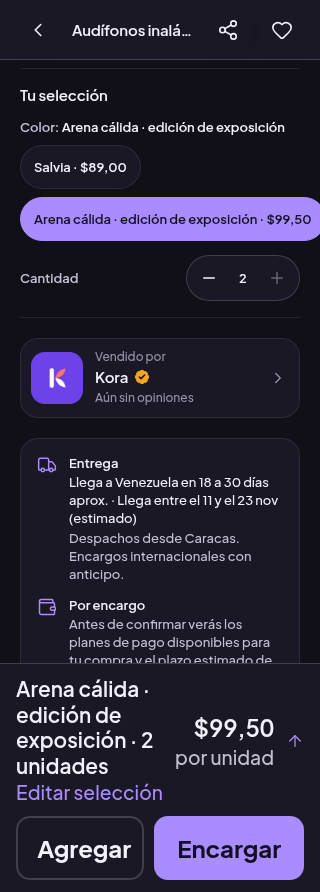
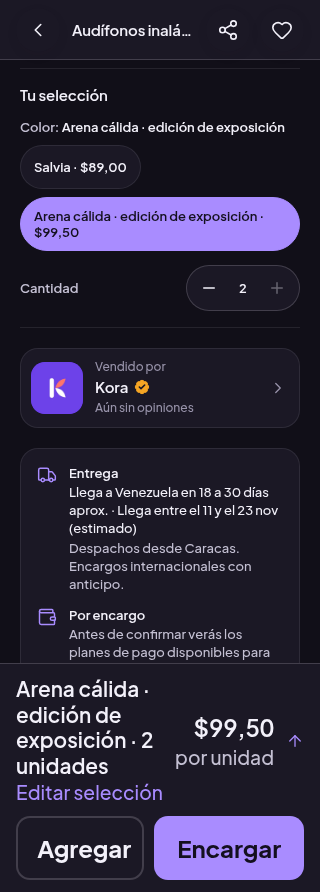
feat: validar selección contextual de compra y reflujo accesible

diff --git a/docs/ESTADO_ACTUAL.md b/docs/ESTADO_ACTUAL.md
@@ -12,7 +12,7 @@ El catálogo 25/32 ya fue publicado: EAS `40043643824` Success, fuente `04b384c`
 
 Root continúa un bloque específico de ficha, recomendado por director UX con framework Product Design y revisado estructuralmente por auditor: sección «Tu selección», resumen fijo de variante/cantidad y precio por unidad del DTO, Editar devuelve al selector medido, vendedor antes de condiciones. No otro modal ni cálculos. Se bloquea edición mientras agrega y se evita un segundo envío simultáneo; cambiar selección retira la confirmación anterior. Android reserva el inset superior una sola vez para que los iconos del sistema conserven contraste sobre las fotos claras; skeleton coherente y apariencia restaurada al salir. No cambios iOS/nativos/backend/financieros.
 
-**Checkpoint:** código de ficha y Chip opcionalmente deshabilitado, tipos/lint y ocho pruebas UI específicas aprobados. 16 capturas web antes/después revisadas; barra normal 131 px, selector completo llega a y=68 y cabe. Auditor acepta composición normal y exige foco al activar Editar: corregido con encabezado semántico focalizable, foco web y accesibilidad Android. Se corrige también un icono inexistente que caía en el pictograma de etiqueta. Retest final 8/8 aprobado con Enter → foco en encabezado → Tab a variante; selector completo por encima de barra. 20 PNG: 16 comparables y cuatro destino/estrés; fixture de variante larga/precio distinto sólo navegador, no datos remotos ni fuente OS. Exportación web/Android Hermes final correcta. Comercio APROBADO. QA detectó etiqueta de variante muy larga recortada en el fixture 320: corregido reflujo opcional sólo en chips de variantes, con prueba del texto y ancho completo. Se corrigió además la copia de cuatro capturas cuya carpeta de Playwright truncaba el nombre de tema; 20 rutas únicas/hashs. Falta retest del reflujo, auditor final y recepción nativa de este segundo incremento. No incluido en la primera OTA del catálogo y no publicar la segunda hasta cerrar su revisión y comprobar la recepción de la primera. Próxima acción: exportación web bajo `.local/ficha-seleccion-20261024`, pruebas focalizadas Editar→color/cantidad→Agregar→carrito, bloqueo/envío único/error/sin stock, capturas 320/412 claro/oscuro y revisión independiente. No repetir suites generales ni regenerar imágenes.
+**Checkpoint:** código de ficha y Chip opcionalmente deshabilitado, tipos/lint y ocho pruebas UI específicas aprobados. 16 capturas web antes/después revisadas; barra normal 131 px, selector completo llega a y=68 y cabe. Auditor acepta composición normal y exige foco al activar Editar: corregido con encabezado semántico focalizable, foco web y accesibilidad Android. Se corrige también un icono inexistente que caía en el pictograma de etiqueta. Retest final 8/8 aprobado con Enter → foco en encabezado → Tab a variante; selector completo por encima de barra. 20 PNG: 16 comparables y cuatro destino/estrés; fixture de variante larga/precio distinto sólo navegador, no datos remotos ni fuente OS. Exportación web/Android Hermes final correcta. Comercio APROBADO. QA detectó etiqueta de variante muy larga recortada en el fixture 320: corregido reflujo opcional sólo en chips de variantes, con prueba del texto y ancho completo. Se corrigió además la copia de cuatro capturas cuya carpeta de Playwright truncaba el nombre de tema; 20 rutas únicas/hashs. Retest de reflujo y exportaciones finales aprobados: 8/8 casos UI y etiqueta completa a 320 px. Dictamen final web APROBADO (20 hashes, 8 pruebas, foco/reflujo cerrados). Segunda OTA en preparación y recepción nativa pendientes. Auditor aprobó también recepción del catálogo tras revisar sus 24 JPG/hashs; P2 anterior de estado queda para la nueva ficha. No incluido en la primera OTA del catálogo y no publicar la segunda hasta cerrar su revisión y comprobar la recepción de la primera. Próxima acción: exportación web bajo `.local/ficha-seleccion-20261024`, pruebas focalizadas Editar→color/cantidad→Agregar→carrito, bloqueo/envío único/error/sin stock, capturas 320/412 claro/oscuro y revisión independiente. No repetir suites generales ni regenerar imágenes.
 
 ## Trabajo en curso — renovación real de imágenes Android
 

diff --git a/docs/FICHA_SELECCION_2026-10-24.md b/docs/FICHA_SELECCION_2026-10-24.md
@@ -1,6 +1,6 @@
 # Ficha: selección vinculada a compra
 
-**Segundo incremento del 24 de octubre de 2026.** El catálogo 25/32 ya está publicado y recibido; este bloque lo conserva. Fuente funcional `f195f8a`. Publicación de ficha todavía pendiente de cierre independiente.
+**Segundo incremento del 24 de octubre de 2026.** El catálogo 25/32 ya está publicado y recibido; este bloque lo conserva. Fuente funcional `f195f8a` y cierre de reflujo `73be557`. Dictamen independiente final web: **APROBADO** para publicar Android preview. Comercio también APROBADO.
 
 ## Problema y decisión
 
@@ -28,7 +28,7 @@ El framework aporta esos criterios; la composición y las medidas son decisiones
 
 La barra normal mide **131 px** en las cuatro combinaciones web 320/412 y claro/oscuro. El selector completo mide 198 px y, al activar Editar, comienza en **y=68**: queda entero por encima de la barra. El padding inferior responde a la altura real. Se acepta el coste vertical porque mantiene contexto comercial fuera del primer desplazamiento; no se acorta ni recorta la foto para compensarlo.
 
-**8/8 casos UI finales aprobados**, ambos temas:
+**8/8 casos UI finales aprobados** tras el último ajuste de reflujo, ambos temas:
 
 1. Descripción → Editar con Enter → foco del encabezado → Tab a variante → cambiar color/cantidad → agregar → carrito sin duplicar.
 2. Persistencia local retenida: edición bloqueada, doble pulsación rápida produce una escritura; confirmación desaparece al cambiar selección después.
@@ -48,6 +48,6 @@ Tipos/lint móvil y exportaciones web/Android Hermes aprobados. El estrés modif
 
 ## Control de calidad y entrega
 
-Auditor aceptó composición normal y exigió corregir el foco de Editar: resuelto y probado. Se sustituyó un nombre de icono inexistente que mostraba el pictograma de etiqueta por `arrow-up` del conjunto real. Sin revisión infinita ni otra auditoría global.
+Auditor aceptó composición normal y exigió corregir el foco de Editar: resuelto y probado. Se sustituyó un nombre de icono inexistente que mostraba el pictograma de etiqueta por `arrow-up` del conjunto real. Al revisar el fixture estrecho se descubrió que una opción larga se recortaba: corregido reflujo opcional sólo en chips de variantes, probado ancho y texto completos, exportaciones finales correctas. Comercio detectó además cuatro validaciones mal etiquetadas porque Playwright truncó el nombre del tema en su carpeta: se inspeccionaron los originales y se corrigió el mapeo explícito. El registro final tiene 20 rutas únicas y 20 hashes correctos. Sin revisión infinita ni otra auditoría global.
 
-Pendiente: dictamen final independiente, commit/push de evidencia, EAS Android preview con guard exacto APK 5 y recepción nueva mediante `13-ficha-seleccion` / `14-ficha-seleccion-texto`, claro/oscuro normal/OS 1,6. No APK nuevo, production, cambios nativos, backend, cálculos o pagos.
+Cerrados foco, reflujo, procedencia de 20 capturas y 8 pruebas finales; sin P1/P2 web abiertas. Pendiente: commit/push de evidencia, EAS Android preview con guard exacto APK 5 y recepción nueva mediante `13-ficha-seleccion` / `14-ficha-seleccion-texto`, claro/oscuro normal/OS 1,6. No APK nuevo, production, cambios nativos, backend, cálculos o pagos.

diff --git a/docs/HISTORIAL_AGENTES.md b/docs/HISTORIAL_AGENTES.md
@@ -1017,3 +1017,5 @@ Revisión de ficha: ocho UI específicas aprobadas y 16 capturas antes/después;
 OTA `01a16b40-71a9-7bce-9e05-29cf30866e11` publicada 00:12 UTC / 23oct 20:12 Venezuela, EAS40043643824 Success/04b384c. Android40043939016 Success/b4d70b9, 4/4 sin reintentos, fuente OS normal/1,6, ambos temas; imágenes nuevas y Arena→carrito comprobados. 24 JPG derivados por CI copiados sin más edición desde ci/capturas@d62dc88792a85c7214166c2933b88932378b307e, hashes registrados. No se afirma recepción física Samsung. Ficha posterior:8/8 UI finales, foco corregido,20 PNG con límites de fixture/web y exportaciones finales aprobadas; auditor final y publicación/recepción de segundo incremento pendientes.
 
 QA de ficha: comercio aprueba semántica unitaria/encargo/agotado y detecta copia de validaciones con tema inferido mal desde nombres truncados de Playwright: corregido con inspección de cuatro originales, 20 rutas únicas. Root detecta clipping real de variante extra larga a 320 px: reflujo opcional sólo para esas opciones y prueba de texto/medida; retest antes de publicar.
+
+Cierre local de ficha: reflujo optativo sólo para variantes, texto y ancho completos probados a 320, 8/8 UI finales, tipos/lint y exportaciones web/Android correctos. Las cuatro validaciones copian los originales al tema correcto; 20 rutas/hashs únicos. Comercio APROBADO. Auditor aprueba recepción previa del catálogo, 24 JPG examinados; pendiente dictamen final web de ficha y su nueva OTA/nativo.
